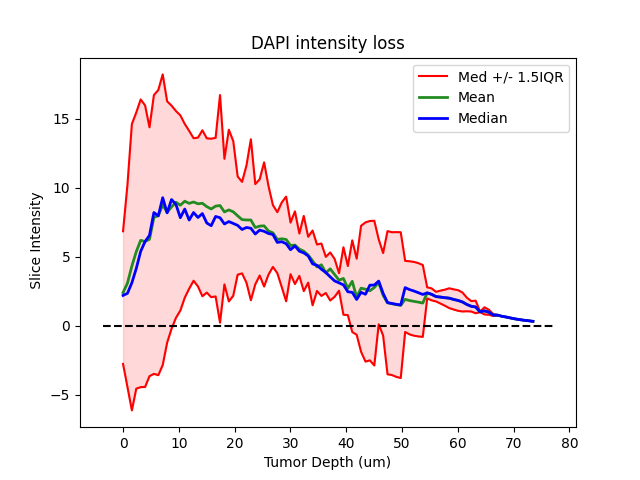
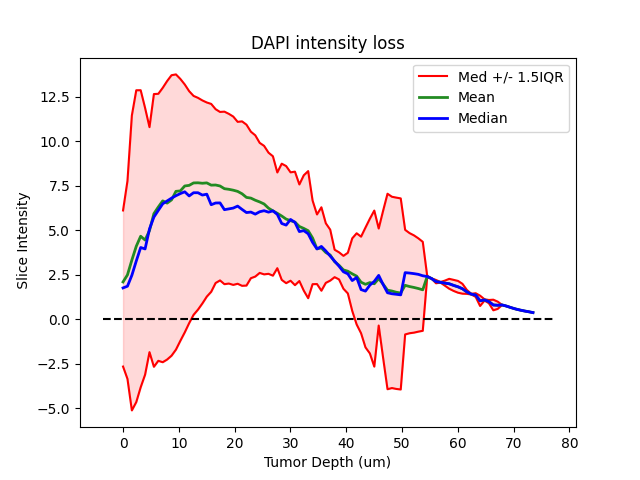
Sorting input tiff lists

diff --git a/scripts/agg_depth_loss.py b/scripts/agg_depth_loss.py
@@ -19,13 +19,13 @@ def get_folders(rootdir, names, inverse):
                     dirs_found.append(os.path.join(root, d))
     return dirs_found
 
-def agg_means(dirs, threshold, stddev, ignore_monolayer):
+def agg_means(dirs, threshold, stddev, ignore_monolayer, cutoff = 0.75):
     meandict = {}
     for idx, d in enumerate(dirs):
         tiffs = tools.get_files(d)
         these_means = []
         if ignore_monolayer:
-            norm_bool = normalizeIM.get_norm_bool_idxs(tiffs, 0.75)
+            norm_bool = normalizeIM.get_norm_bool_idxs(tiffs, cutoff)
             for t in tiffs:
                 these_means.append(normalizeIM.tiff_mean(t, norm_bool, threshold, stddev, 0))
         else:
@@ -68,6 +68,7 @@ def main():
     parser.add_argument('-t', '--threshold', help = 'Pixel threshold for normalized values', default = 0)
     parser.add_argument('-O', '--outlierHandling', help = "Pixels above '-O' standard deviations are not considered", default = -1)
     parser.add_argument('-im', '--ignore-monolayer', nargs = '?', help = 'Add this option when tumor boundaries should be calculated to exclude monolayer signal in normalization slice means', default = False, const = True)
+    # parser.add_argument('-imc', '--ignore-monolayer', help =
     args = parser.parse_args()
 
     threshold = tools.smart_check_int_param(args.threshold, 'threshold', 0, 50)
@@ -84,7 +85,7 @@ def main():
         data_df = pd.read_csv(rawdf_out)
     else:
         dirs = get_folders(args.rootdir, args.stacks, args.not_named)
-        data_df = agg_means(dirs, threshold, n_stddevs, args.ignore_monolayer)
+        data_df = agg_means(dirs, threshold, n_stddevs, args.ignore_monolayer, 0.60)
         data_df.to_csv(rawdf_out)
 
     analdf_out = dataout + "_anal.csv"

diff --git a/scripts/normalize.py b/scripts/normalize.py
@@ -35,7 +35,7 @@ def mean_normalizer(tiff_list, norm_list, threshold, outlier_stddevs, raw_norm):
     print(f"\nCreating normalized tiffs in {out_dir}.")
     norm_tiffs = []
     count = 1
-    for tiff, norm in zip(tiff_list, norm_list):
+    for tiff, norm in zip(np.sort(tiff_list), np.sort(norm_list)):
         print(f"Normalizing {tiff_dirname} using {norm_dirname} ({count}/{len(tiff_list)})...", end = '\n')
         norm_tiffs.append(mean_normalize(tiff, norm, out_dir, threshold, outlier_stddevs, raw_norm))
         count += 1
